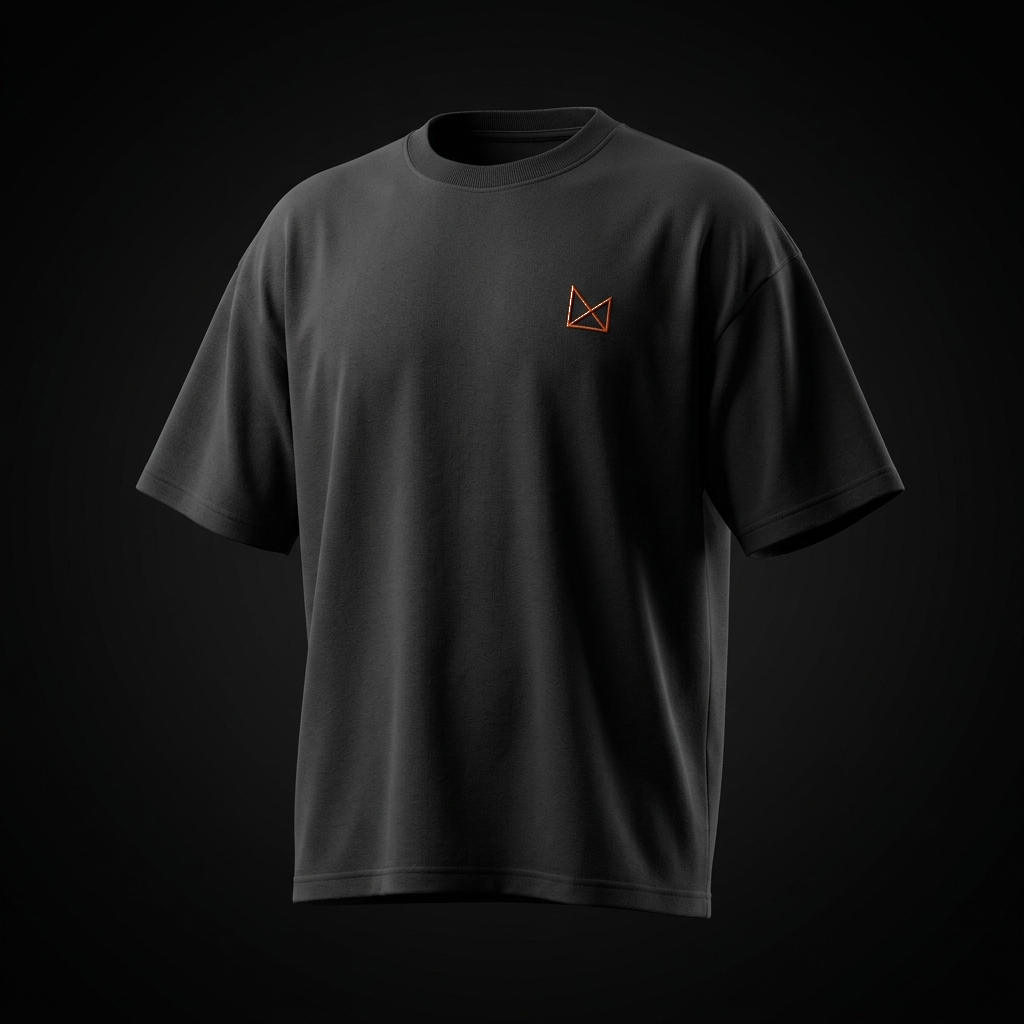
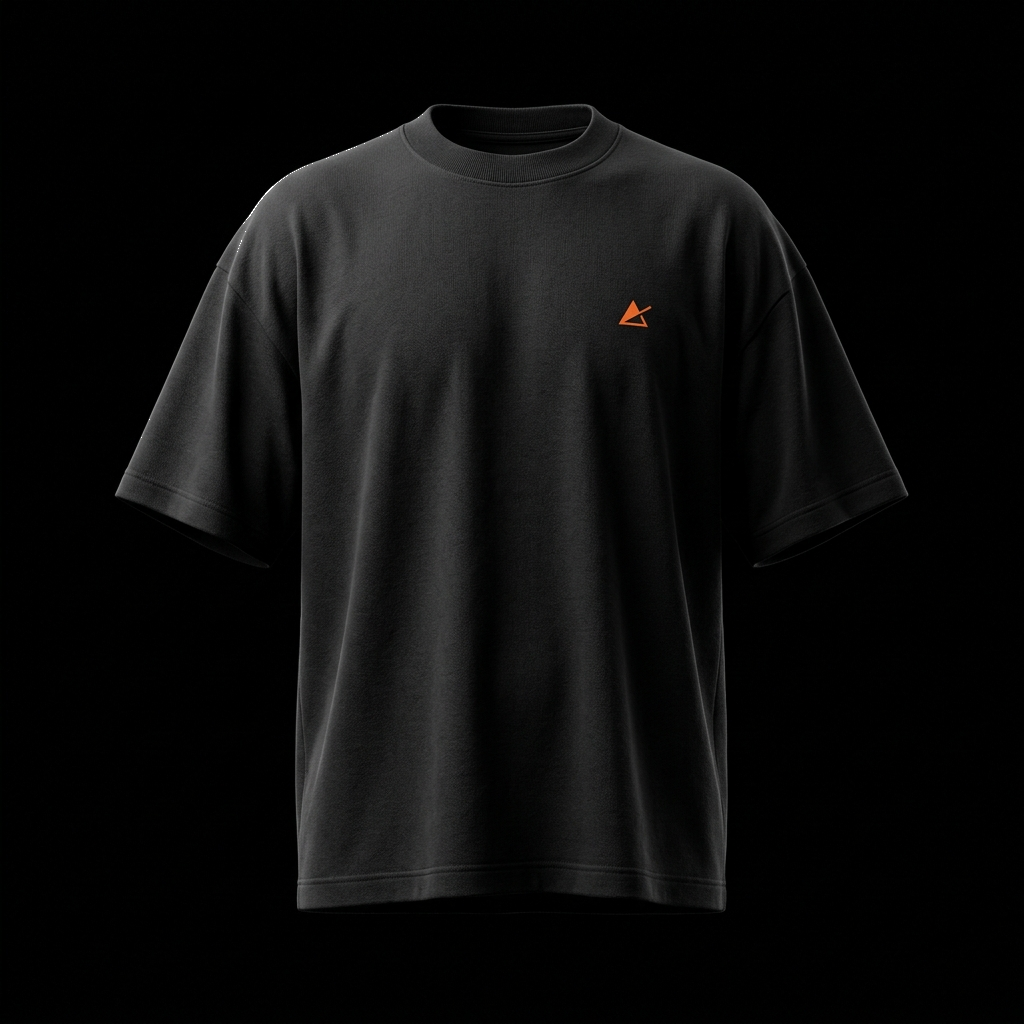
feat: higher resolution T-shirt images and larger display size

diff --git a/src/components/Tshirt3DModel.jsx b/src/components/Tshirt3DModel.jsx
@@ -82,7 +82,7 @@ export default function Tshirt3DModel() {
     >
       {/* 3D card wrapper */}
       <div
-        className="relative w-[340px] h-[440px] md:w-[400px] md:h-[520px] lg:w-[460px] lg:h-[580px]"
+        className="relative w-[480px] h-[520px] md:w-[550px] md:h-[600px] lg:w-[650px] lg:h-[700px]"
         style={{
           transformStyle: 'preserve-3d',
           transform: `rotateX(${rotateX}deg) rotateY(${rotateY}deg)`,